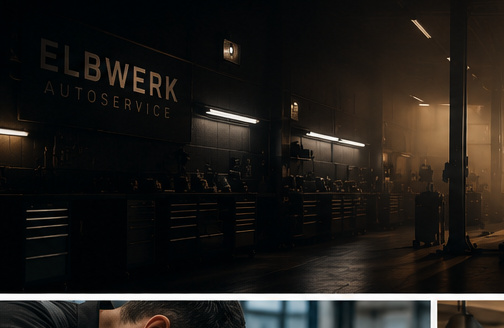
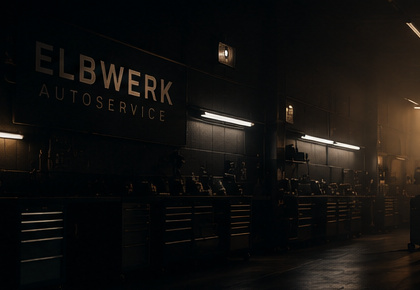
fix: re-crop autoservice and zahnarzt images to remove separator artifacts
All crops were redone with precise separator detection:
- autoservice: diagnose (tall OBD col), reparatur, uebergabe, elbwerk-cinematic
- zahnarzt: dr-laura, dr-marcus, jana, reception-elbdent, consultation, treatment, reception

Also fix restaurant Philosophy section layout (items-stretch + fill image).

https://claude.ai/code/session_01PUwvXfqAXescndkWihxj3H

diff --git a/pages/referenzen/restaurant-demo.js b/pages/referenzen/restaurant-demo.js
@@ -280,15 +280,14 @@ function Hero() {
 function Philosophy() {
   return (
     <section id="kueche" className="px-5 py-24 sm:px-8 sm:py-32" style={{ scrollMarginTop: 80 }}>
-      <div className="mx-auto grid max-w-6xl items-center gap-12 lg:grid-cols-2 lg:gap-16">
-        <Reveal>
-          <figure className="relative overflow-hidden rounded-[2rem]">
+      <div className="mx-auto grid max-w-6xl items-stretch gap-12 lg:grid-cols-2 lg:gap-16">
+        <Reveal className="h-full">
+          <figure className="relative h-full min-h-[420px] overflow-hidden rounded-[2rem] sm:min-h-[540px]">
             <Image
               src="/restaurant-images/chef.jpg"
               alt="Küchenchef finalisiert ein detailreich angerichtetes Gericht"
-              width={1200}
-              height={1400}
-              className="h-[420px] w-full object-cover sm:h-[540px]"
+              fill
+              className="object-cover object-[center_30%]"
             />
             <figcaption className="absolute bottom-5 left-5 rounded-full px-4 py-2 text-xs uppercase" style={{ background: 'rgba(14,11,7,0.7)', color: palette.gold, letterSpacing: '0.2em', backdropFilter: 'blur(8px)' }}>
               Unsere Küche · täglich frisch
@@ -296,7 +295,7 @@ function Philosophy() {
           </figure>
         </Reveal>
 
-        <div>
+        <div className="flex flex-col justify-center">
           <Reveal>
             <Kicker>Die Philosophie</Kicker>
             <h2 className="mt-5 text-4xl leading-tight sm:text-5xl" style={{ fontFamily: displayFont, color: palette.cream, fontWeight: 600 }}>
